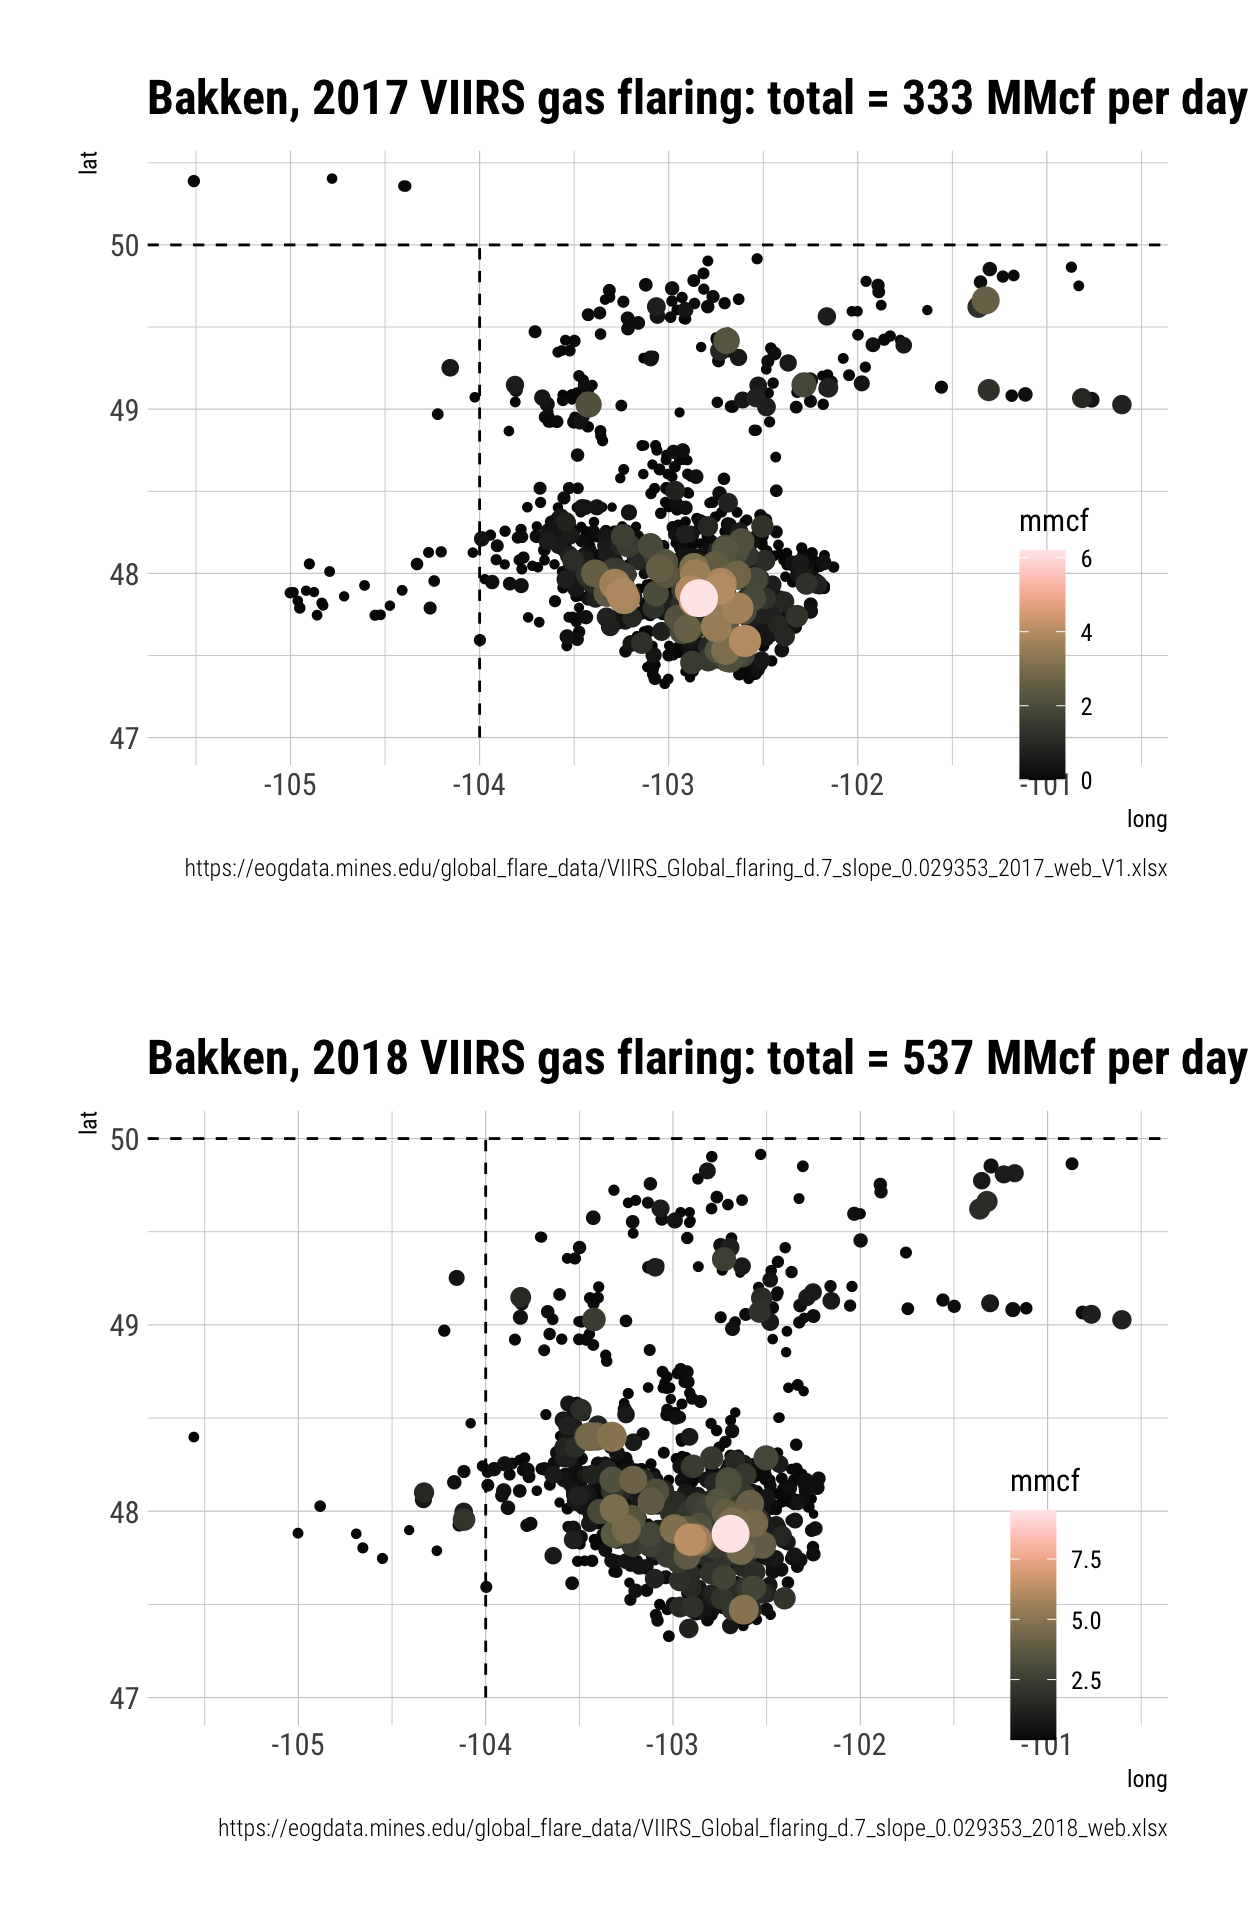
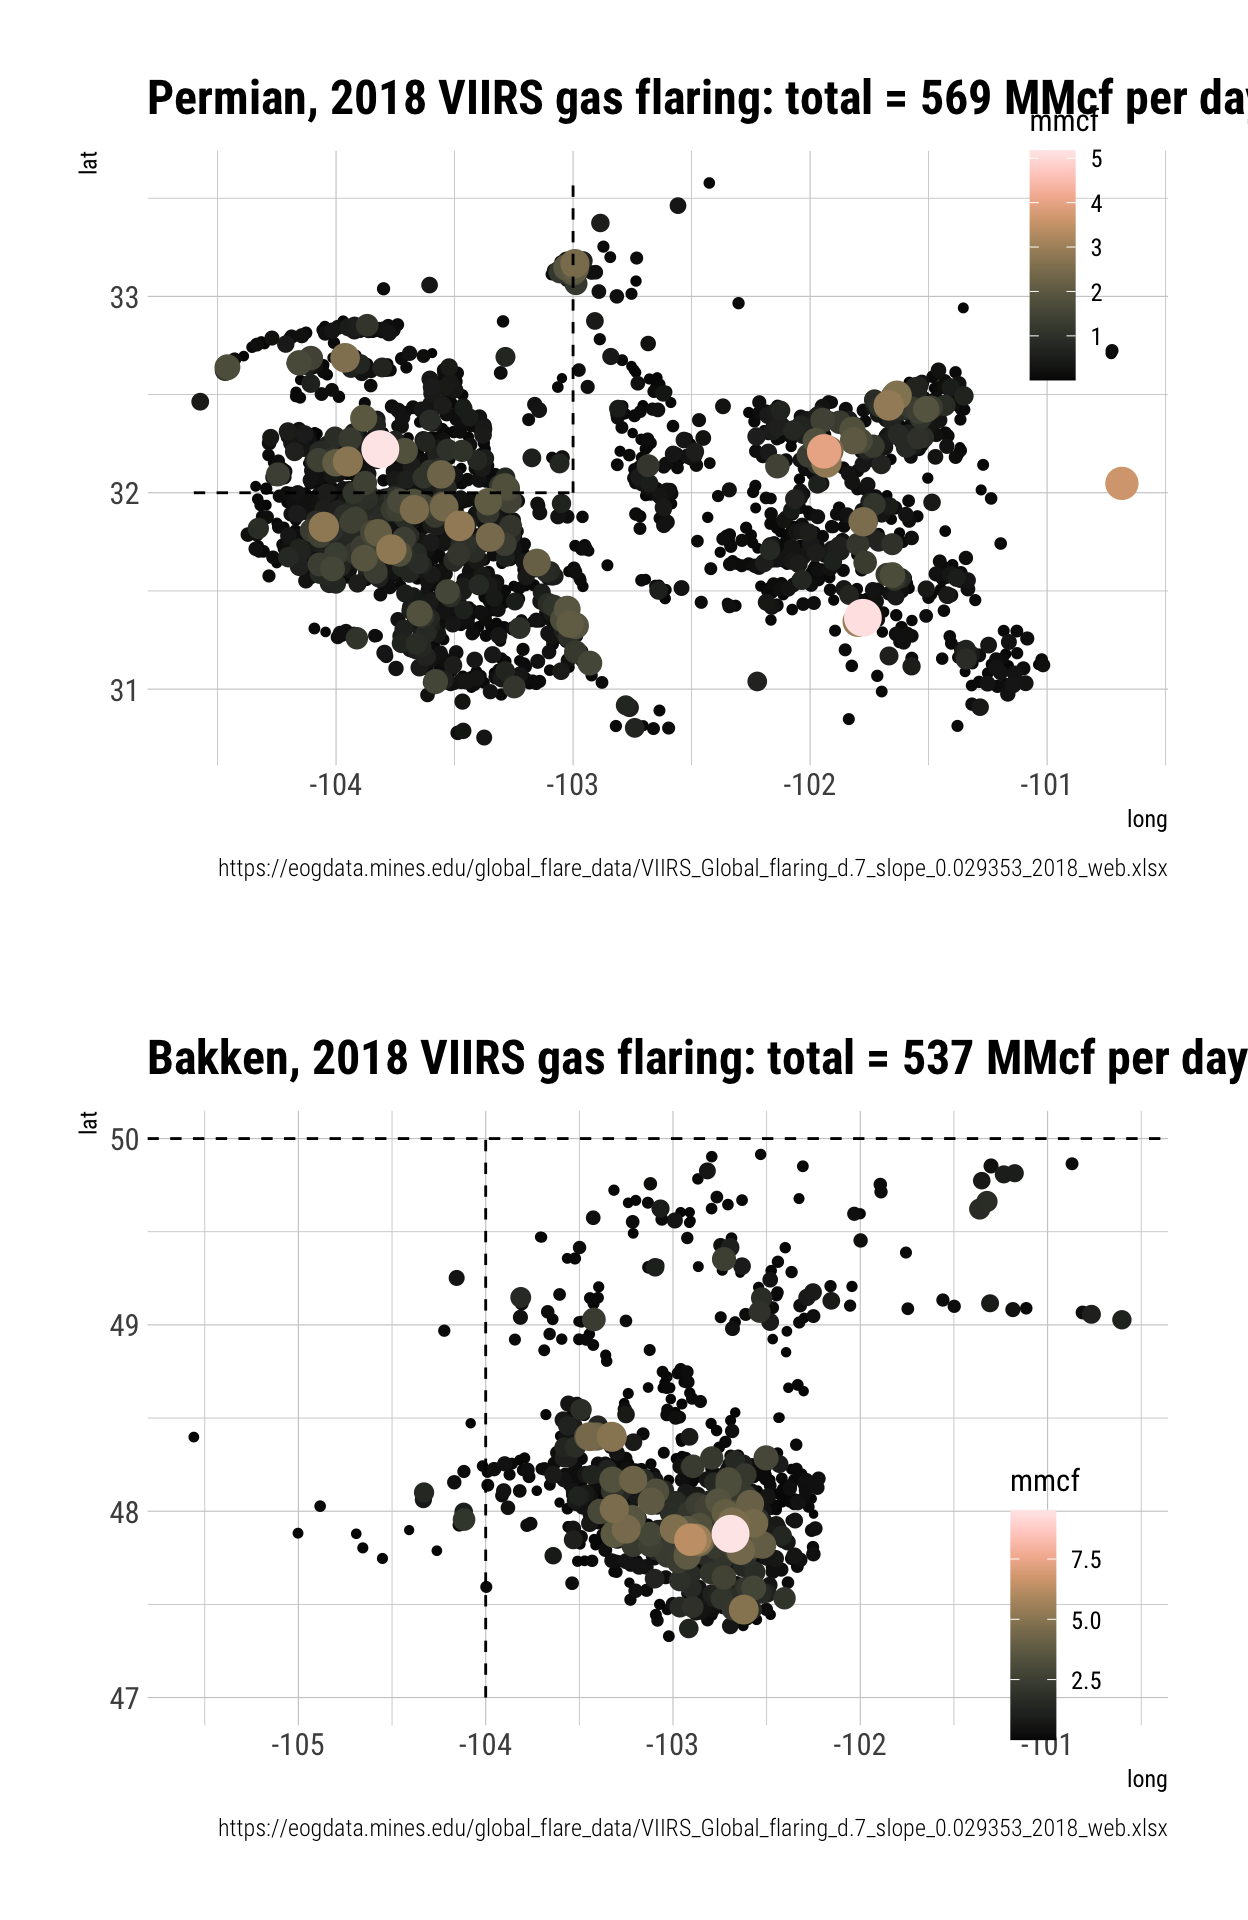
qq

diff --git a/blog/_posts/2020-09-25-tropomi-and-gas-emsissions/tropomi-and-gas-emsissions.html b/blog/_posts/2020-09-25-tropomi-and-gas-emsissions/tropomi-and-gas-emsissions.html
@@ -1175,9 +1175,9 @@ Figure 1: US gas production, sourced from EIA. b) Cape Grim Observatory CH<sub>4
 <!-- (Fig. \@ref(fig:fig-sat)). -->
 <div class="layout-chunk" data-layout="l-body">
 <div class="figure"><span id="fig:fig-viirs"></span>
-<img src="tropomi-and-gas-emsissions_files/figure-html5/fig-viirs-1.png" alt="Estimates of gas flaring in the  Bakken for 2018, from VIIRS" width="624" />
+<img src="tropomi-and-gas-emsissions_files/figure-html5/fig-viirs-1.png" alt="Distribution and volumes gas flaring in the  Permian and Bakken for 2018, from VIIRS, in units of Mmcf per day" width="624" />
 <p class="caption">
-Figure 2: Estimates of gas flaring in the Bakken for 2018, from VIIRS
+Figure 2: Distribution and volumes gas flaring in the Permian and Bakken for 2018, from VIIRS, in units of Mmcf per day
 </p>
 </div>
 </div>

diff --git a/blog/_site/posts/2020-09-25-tropomi-and-gas-emsissions/index.html b/blog/_site/posts/2020-09-25-tropomi-and-gas-emsissions/index.html
@@ -1789,9 +1789,9 @@ Figure 1: US gas production, sourced from EIA. b) Cape Grim Observatory CH<sub>4
 <!-- (Fig. \@ref(fig:fig-sat)). -->
 <div class="layout-chunk" data-layout="l-body">
 <div class="figure"><span id="fig:fig-viirs"></span>
-<img src="tropomi-and-gas-emsissions_files/figure-html5/fig-viirs-1.png" alt="Estimates of gas flaring in the  Bakken for 2018, from VIIRS" width="624" />
+<img src="tropomi-and-gas-emsissions_files/figure-html5/fig-viirs-1.png" alt="Distribution and volumes gas flaring in the  Permian and Bakken for 2018, from VIIRS, in units of Mmcf per day" width="624" />
 <p class="caption">
-Figure 2: Estimates of gas flaring in the Bakken for 2018, from VIIRS
+Figure 2: Distribution and volumes gas flaring in the Permian and Bakken for 2018, from VIIRS, in units of Mmcf per day
 </p>
 </div>
 </div>
